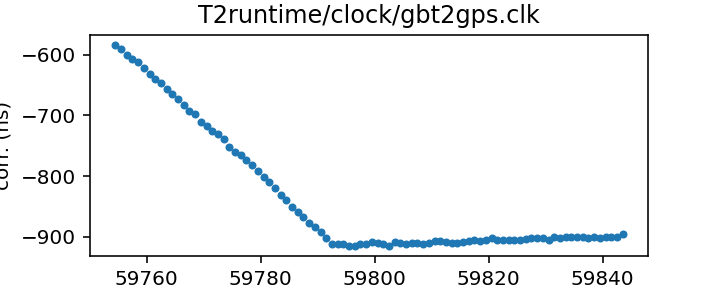
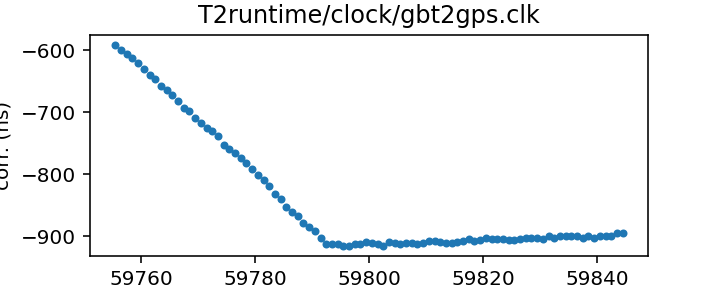
Routine gh-pages update from Github action Fri Sep 23 20:39:31 UTC 2022

diff --git a/status.md b/status.md
@@ -13,17 +13,17 @@ name of each clock file links to a page with more details.
 
 | Name | File | Corrections start | Corrections end | Last check date | Last check result 
 |:--- |:--- | --- | --- | --- |:--- 
-| [GPS to UTC](T2runtime/clock/gps2utc.clk.html) | `T2runtime/clock/gps2utc.clk` | 1993-01-01 MJD 48988.0 | 2022-08-28 MJD 59819.0 | 2022-09-22 | Unchanged 
-| [GPS to UTC (Combined Clock)](T2runtime/clock/gps2utc_cc.clk.html) | `T2runtime/clock/gps2utc_cc.clk` | 1993-01-01 MJD 48988.0 | 2022-08-28 MJD 59819.0 | 2022-09-22 | Unchanged 
-| [GPS to UTC (Corrected)](T2runtime/clock/gps2utc_c0p.clk.html) | `T2runtime/clock/gps2utc_c0p.clk` | 2010-12-29 MJD 55559.0 | 2022-08-28 MJD 59819.0 | 2022-09-22 | Unchanged 
-| [GBT](tempo/clock/time_gbt.dat.html) | `tempo/clock/time_gbt.dat` | 2000-12-31 MJD 51909.5 | 2022-09-21 MJD 59843.5 | 2022-09-22 | Updated 
-| [GBT (TEMPO2 converted from TEMPO)](T2runtime/clock/gbt2gps.clk.html) | `T2runtime/clock/gbt2gps.clk` | 2000-12-31 MJD 51909.5 | 2022-09-21 MJD 59843.5 | 2022-09-22 | Updated 
+| [GPS to UTC](T2runtime/clock/gps2utc.clk.html) | `T2runtime/clock/gps2utc.clk` | 1993-01-01 MJD 48988.0 | 2022-08-28 MJD 59819.0 | 2022-09-23 | Unchanged 
+| [GPS to UTC (Combined Clock)](T2runtime/clock/gps2utc_cc.clk.html) | `T2runtime/clock/gps2utc_cc.clk` | 1993-01-01 MJD 48988.0 | 2022-08-28 MJD 59819.0 | 2022-09-23 | Unchanged 
+| [GPS to UTC (Corrected)](T2runtime/clock/gps2utc_c0p.clk.html) | `T2runtime/clock/gps2utc_c0p.clk` | 2010-12-29 MJD 55559.0 | 2022-08-28 MJD 59819.0 | 2022-09-23 | Unchanged 
+| [GBT](tempo/clock/time_gbt.dat.html) | `tempo/clock/time_gbt.dat` | 2000-12-31 MJD 51909.5 | 2022-09-22 MJD 59844.5 | 2022-09-23 | Updated 
+| [GBT (TEMPO2 converted from TEMPO)](T2runtime/clock/gbt2gps.clk.html) | `T2runtime/clock/gbt2gps.clk` | 2000-12-31 MJD 51909.5 | 2022-09-22 MJD 59844.5 | 2022-09-23 | Updated 
 | [Jodrell Bank](T2runtime/clock/jb2gps.clk.html) | `T2runtime/clock/jb2gps.clk` | 2006-10-13 MJD 54021.4 | 2021-11-03 MJD 59521.0 | 2022-09-21 | Unchanged 
 | [Jodrell Bank Roach](T2runtime/clock/jbroach2jb.clk.html) | `T2runtime/clock/jbroach2jb.clk` | 2006-10-13 MJD 54021.4 | 2018-03-20 MJD 58197.6 | 2022-09-21 | Unchanged 
 | [Jodrell Bank DFB](T2runtime/clock/jbdfb2jb.clk.html) | `T2runtime/clock/jbdfb2jb.clk` | 2006-10-13 MJD 54021.4 | 2017-05-11 MJD 57884.0 | 2022-09-21 | Unchanged 
 | [Meerkat (observatory)](T2runtime/clock/mk2utc_observatory.clk.html) | `T2runtime/clock/mk2utc_observatory.clk` | 2019-01-01 MJD 58484.0 | 2022-08-28 MJD 59820.0 | 2022-09-19 | Updated 
-| [Leap seconds](tempo/clock/leap.sec.html) | `tempo/clock/leap.sec` | 1972-07-01 MJD 41499.0 | 2017-01-01 MJD 57754.0 | 2022-09-22 | Unchanged 
-| [UT1 table](tempo/clock/ut1.dat.html) | `tempo/clock/ut1.dat` | 1973-01-02 MJD 41684.0 | 2023-09-23 MJD 60210.0 | 2022-09-22 | Unchanged 
+| [Leap seconds](tempo/clock/leap.sec.html) | `tempo/clock/leap.sec` | 1972-07-01 MJD 41499.0 | 2017-01-01 MJD 57754.0 | 2022-09-23 | Unchanged 
+| [UT1 table](tempo/clock/ut1.dat.html) | `tempo/clock/ut1.dat` | 1973-01-02 MJD 41684.0 | 2023-09-30 MJD 60217.0 | 2022-09-23 | Updated 
 
 
 

diff --git a/T2runtime/clock/gbt2gps.clk.md b/T2runtime/clock/gbt2gps.clk.md
@@ -23,14 +23,13 @@ If questions arise about the conversion, contact Anne Archibald
 | Format | tempo2 |
 | Bogus last correction | False |
 | Clock file start | 2000-12-31 MJD 51909.5 |
-| Clock file end | 2022-09-21 MJD 59843.5 |
+| Clock file end | 2022-09-22 MJD 59844.5 |
 | Update interval (days) | 1 |
-| Last update attempt | 2022-09-22 |
+| Last update attempt | 2022-09-23 |
 | Last update result | Updated |
 
 Log entries from the last few update attempts:
 ```
-2022-09-13 20:37:38.241 - Updated
 2022-09-14 20:39:52.597 - Updated
 2022-09-15 20:40:58.129 - Updated
 2022-09-16 20:38:10.358 - Updated
@@ -40,12 +39,13 @@ Log entries from the last few update attempts:
 2022-09-20 20:39:15.654 - Updated
 2022-09-21 20:38:52.561 - Updated
 2022-09-22 20:39:25.013 - Updated
+2022-09-23 20:39:08.029 - Updated
 ```
 [Full log](https://raw.githubusercontent.com/ipta/pulsar-clock-corrections/main/log/T2runtime/clock/gbt2gps.clk.log)
 
 Leading comments from clock file:
 
-    # This file was automatically converted from tempo/clock/time_gbt.dat on 2022-09-22 20:39:24.938
+    # This file was automatically converted from tempo/clock/time_gbt.dat on 2022-09-23 20:39:07.960
 
 
 

diff --git a/tempo/clock/ut1.dat.md b/tempo/clock/ut1.dat.md
@@ -28,14 +28,13 @@ If there are any questions, contact Anne Archibald
 | File | `tempo/clock/ut1.dat` |
 | Authority | observatory |
 | File start | 1973-01-02 MJD 41684.0 |
-| File end | 2023-09-23 MJD 60210.0 |
+| File end | 2023-09-30 MJD 60217.0 |
 | Update interval (days) | 0 |
-| Last update attempt | 2022-09-22 |
-| Last update result | Unchanged |
+| Last update attempt | 2022-09-23 |
+| Last update result | Updated |
 
 Log entries from the last few update attempts:
 ```
-2022-09-13 20:37:50.638 - Unchanged
 2022-09-14 20:40:03.836 - Unchanged
 2022-09-15 20:41:12.550 - Updated
 2022-09-16 20:38:18.590 - Unchanged
@@ -45,5 +44,6 @@ Log entries from the last few update attempts:
 2022-09-20 20:39:25.295 - Unchanged
 2022-09-21 20:39:03.740 - Unchanged
 2022-09-22 20:39:37.335 - Unchanged
+2022-09-23 20:39:15.877 - Updated
 ```
 [Full log](https://raw.githubusercontent.com/ipta/pulsar-clock-corrections/main/log/tempo/clock/ut1.dat.log)

diff --git a/tempo/clock/time_gbt.dat.md b/tempo/clock/time_gbt.dat.md
@@ -18,14 +18,13 @@ If questions arise, contact Ryan S. Lynch <rlynch@nrao.edu>.
 | Format | tempo |
 | Bogus last correction | False |
 | Clock file start | 2000-12-31 MJD 51909.5 |
-| Clock file end | 2022-09-21 MJD 59843.5 |
+| Clock file end | 2022-09-22 MJD 59844.5 |
 | Update interval (days) | 1 |
-| Last update attempt | 2022-09-22 |
+| Last update attempt | 2022-09-23 |
 | Last update result | Updated |
 
 Log entries from the last few update attempts:
 ```
-2022-09-13 20:37:38.154 - Updated
 2022-09-14 20:39:52.526 - Updated
 2022-09-15 20:40:58.055 - Updated
 2022-09-16 20:38:10.288 - Updated
@@ -35,6 +34,7 @@ Log entries from the last few update attempts:
 2022-09-20 20:39:15.581 - Updated
 2022-09-21 20:38:52.496 - Updated
 2022-09-22 20:39:24.936 - Updated
+2022-09-23 20:39:07.958 - Updated
 ```
 [Full log](https://raw.githubusercontent.com/ipta/pulsar-clock-corrections/main/log/tempo/clock/time_gbt.dat.log)
 

diff --git a/T2runtime/clock/gps2utc_c0p.clk.md b/T2runtime/clock/gps2utc_c0p.clk.md
@@ -30,12 +30,11 @@ about the BIPM's published corrections, contact <tai@bipm.org>.
 | Clock file start | 2010-12-29 MJD 55559.0 |
 | Clock file end | 2022-08-28 MJD 59819.0 |
 | Update interval (days) | 1 |
-| Last update attempt | 2022-09-22 |
+| Last update attempt | 2022-09-23 |
 | Last update result | Unchanged |
 
 Log entries from the last few update attempts:
 ```
-2022-09-13 20:37:37.256 - Unchanged
 2022-09-14 20:39:52.057 - Unchanged
 2022-09-15 20:40:55.637 - Unchanged
 2022-09-16 20:38:09.960 - Unchanged
@@ -45,6 +44,7 @@ Log entries from the last few update attempts:
 2022-09-20 20:39:15.031 - Unchanged
 2022-09-21 20:38:51.793 - Unchanged
 2022-09-22 20:39:24.144 - Unchanged
+2022-09-23 20:39:07.568 - Unchanged
 ```
 [Full log](https://raw.githubusercontent.com/ipta/pulsar-clock-corrections/main/log/T2runtime/clock/gps2utc_c0p.clk.log)
 

diff --git a/T2runtime/clock/gps2utc_cc.clk.md b/T2runtime/clock/gps2utc_cc.clk.md
@@ -29,12 +29,11 @@ about the BIPM's published corrections, contact <tai@bipm.org>.
 | Clock file start | 1993-01-01 MJD 48988.0 |
 | Clock file end | 2022-08-28 MJD 59819.0 |
 | Update interval (days) | 1 |
-| Last update attempt | 2022-09-22 |
+| Last update attempt | 2022-09-23 |
 | Last update result | Unchanged |
 
 Log entries from the last few update attempts:
 ```
-2022-09-13 20:37:37.243 - Unchanged
 2022-09-14 20:39:52.045 - Unchanged
 2022-09-15 20:40:55.625 - Unchanged
 2022-09-16 20:38:09.949 - Unchanged
@@ -44,6 +43,7 @@ Log entries from the last few update attempts:
 2022-09-20 20:39:15.020 - Unchanged
 2022-09-21 20:38:51.782 - Unchanged
 2022-09-22 20:39:24.134 - Unchanged
+2022-09-23 20:39:07.558 - Unchanged
 ```
 [Full log](https://raw.githubusercontent.com/ipta/pulsar-clock-corrections/main/log/T2runtime/clock/gps2utc_cc.clk.log)
 

diff --git a/T2runtime/clock/gps2utc.clk.md b/T2runtime/clock/gps2utc.clk.md
@@ -32,12 +32,11 @@ about the BIPM's published corrections, contact <tai@bipm.org>.
 | Clock file start | 1993-01-01 MJD 48988.0 |
 | Clock file end | 2022-08-28 MJD 59819.0 |
 | Update interval (days) | 1 |
-| Last update attempt | 2022-09-22 |
+| Last update attempt | 2022-09-23 |
 | Last update result | Unchanged |
 
 Log entries from the last few update attempts:
 ```
-2022-09-13 20:37:37.203 - Unchanged
 2022-09-14 20:39:52.012 - Unchanged
 2022-09-15 20:40:55.593 - Unchanged
 2022-09-16 20:38:09.916 - Unchanged
@@ -47,6 +46,7 @@ Log entries from the last few update attempts:
 2022-09-20 20:39:14.988 - Unchanged
 2022-09-21 20:38:51.753 - Unchanged
 2022-09-22 20:39:24.102 - Unchanged
+2022-09-23 20:39:07.525 - Unchanged
 ```
 [Full log](https://raw.githubusercontent.com/ipta/pulsar-clock-corrections/main/log/T2runtime/clock/gps2utc.clk.log)
 

diff --git a/tempo/clock/leap.sec.md b/tempo/clock/leap.sec.md
@@ -21,12 +21,11 @@ If there are any questions, contact Anne Archibald
 | File start | 1972-07-01 MJD 41499.0 |
 | File end | 2017-01-01 MJD 57754.0 |
 | Update interval (days) | 0 |
-| Last update attempt | 2022-09-22 |
+| Last update attempt | 2022-09-23 |
 | Last update result | Unchanged |
 
 Log entries from the last few update attempts:
 ```
-2022-09-13 20:37:38.291 - Unchanged
 2022-09-14 20:39:55.438 - Unchanged
 2022-09-15 20:41:02.238 - Unchanged
 2022-09-16 20:38:10.392 - Unchanged
@@ -36,5 +35,6 @@ Log entries from the last few update attempts:
 2022-09-20 20:39:15.684 - Unchanged
 2022-09-21 20:38:55.260 - Unchanged
 2022-09-22 20:39:28.002 - Unchanged
+2022-09-23 20:39:08.062 - Unchanged
 ```
 [Full log](https://raw.githubusercontent.com/ipta/pulsar-clock-corrections/main/log/tempo/clock/leap.sec.log)
